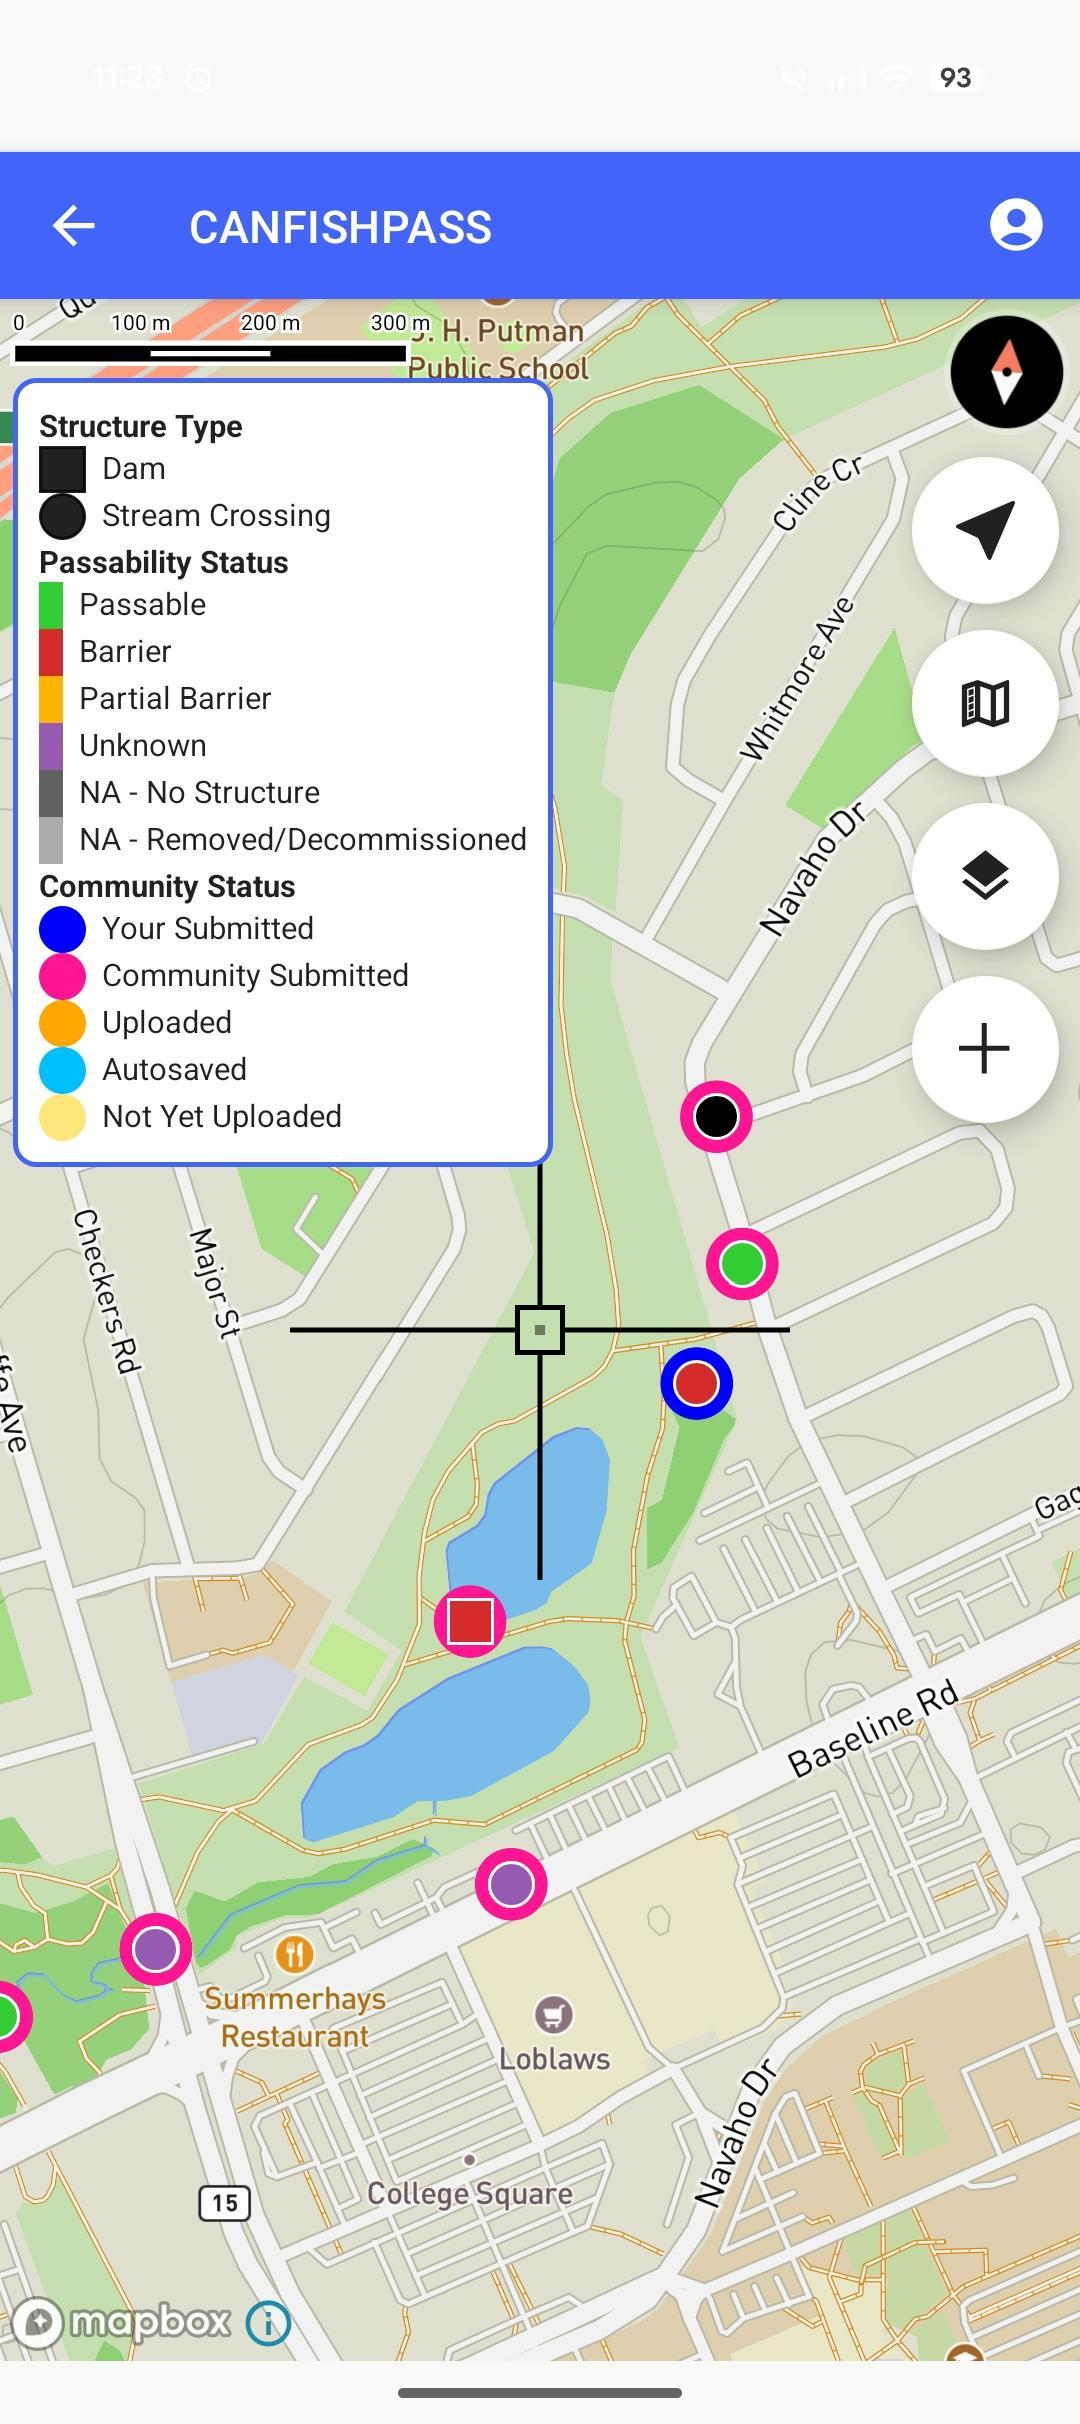
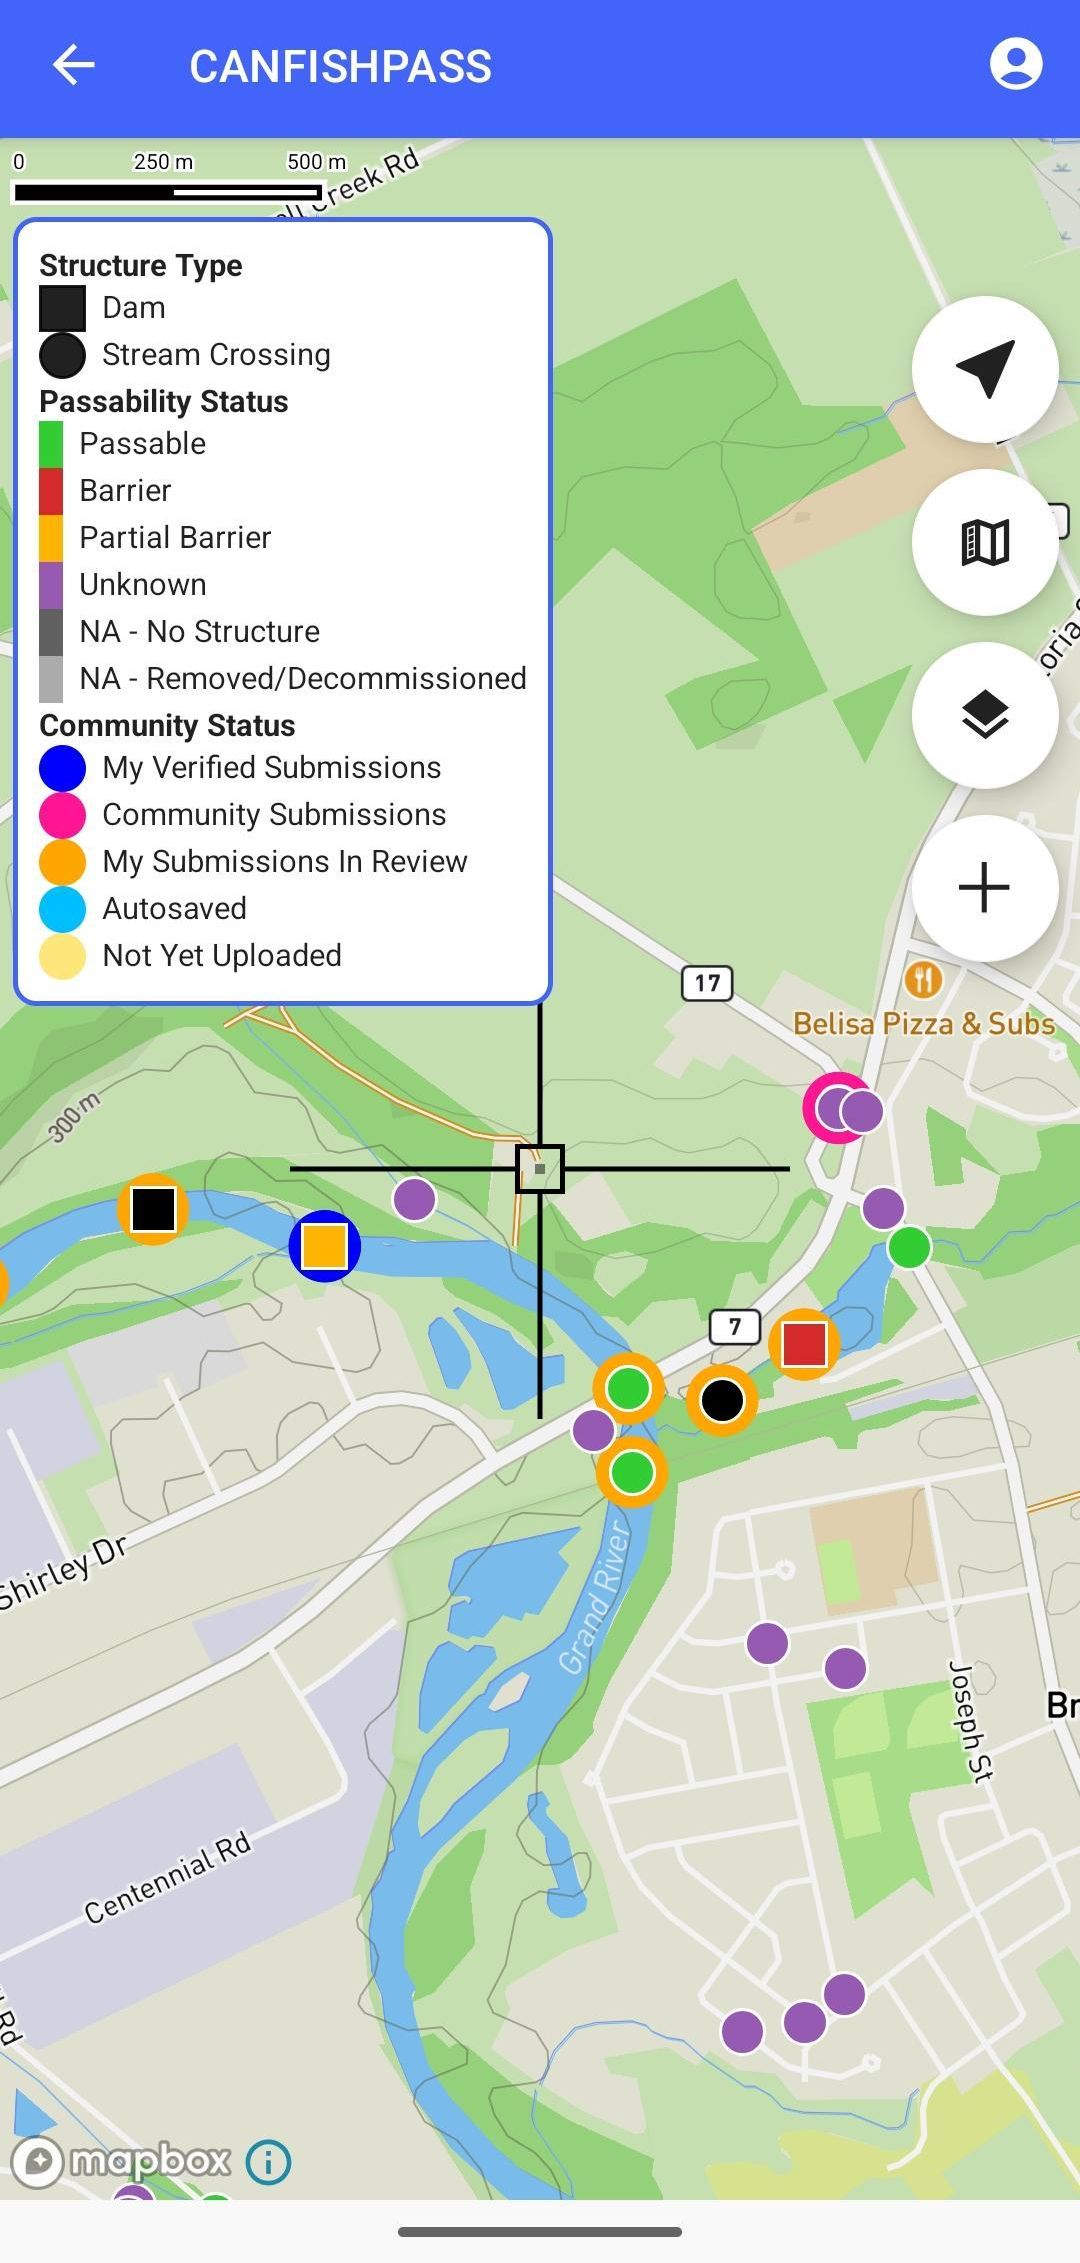
Replace legend and add info about reloading features
Also tried aligning videos in the centre, will check deploy preview to see if it works

diff --git a/docs/source/docs_user/docs_user_app/android_user_guide.rst b/docs/source/docs_user/docs_user_app/android_user_guide.rst
@@ -105,8 +105,8 @@ Here’s a quick summary of what each one does:
      - Open a legend for features displayed on the map. 
 
    * - |logo8|
-     - Base Map and Layer Toggle
-     - Toggle between satellite map style and base map style, and toggle dam or stream crossing layers on or off.  
+     - Base Map and Layer Controls
+     - Toggle between satellite map style and base map style, and toggle dam or stream crossing layers on or off. You can also click "Reload Community Features" to refresh the points displayed if you run into any issues with the map layers.
 
    * - |logo9|
      - Add New Feature
@@ -180,7 +180,7 @@ Click ‘ASSESS THIS FEATURE’ to open the assessment form.
 Tip: If you're unsure what a question is asking, or how to respond, tap the Info icon at the top right of the question for additional details. 
 
 .. raw:: html
-
+    :align: center
     <video controls width="300"><source src="../../_static/android_assess_existing.mp4"></video>
 
 The first question will ask, “This structure is currently identified as (either a dam or a stream crossing), is this correct?""
@@ -204,7 +204,7 @@ To add a new feature:
 #. Once the crosshair is at the appropriate spot, tap the plus sign button in the app menu. This will open the rapid assessment form.
 
 .. raw:: html
-
+    :align: center
     <video controls width="300"><source src="../../_static/android_assess_new.mp4"></video>
 
 Once you select the structure type, additional assessment questions and photo prompts will appear. 
